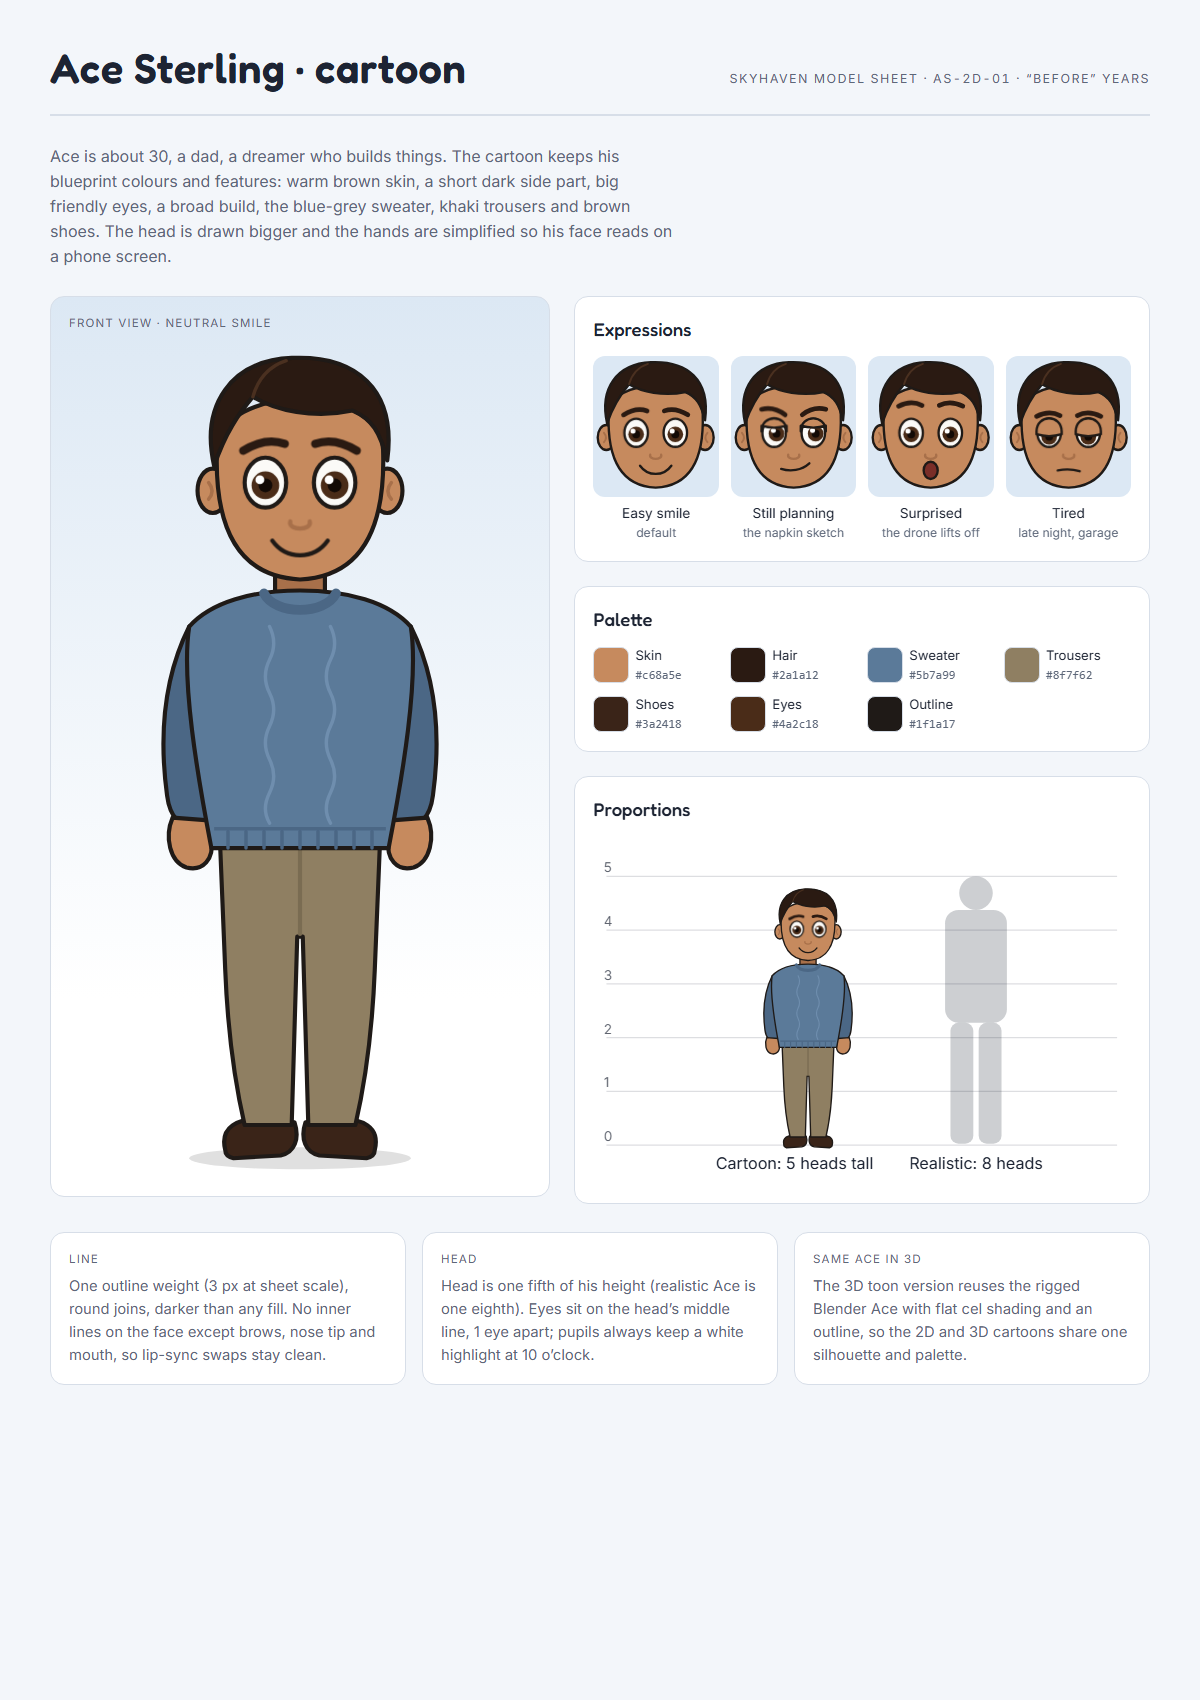
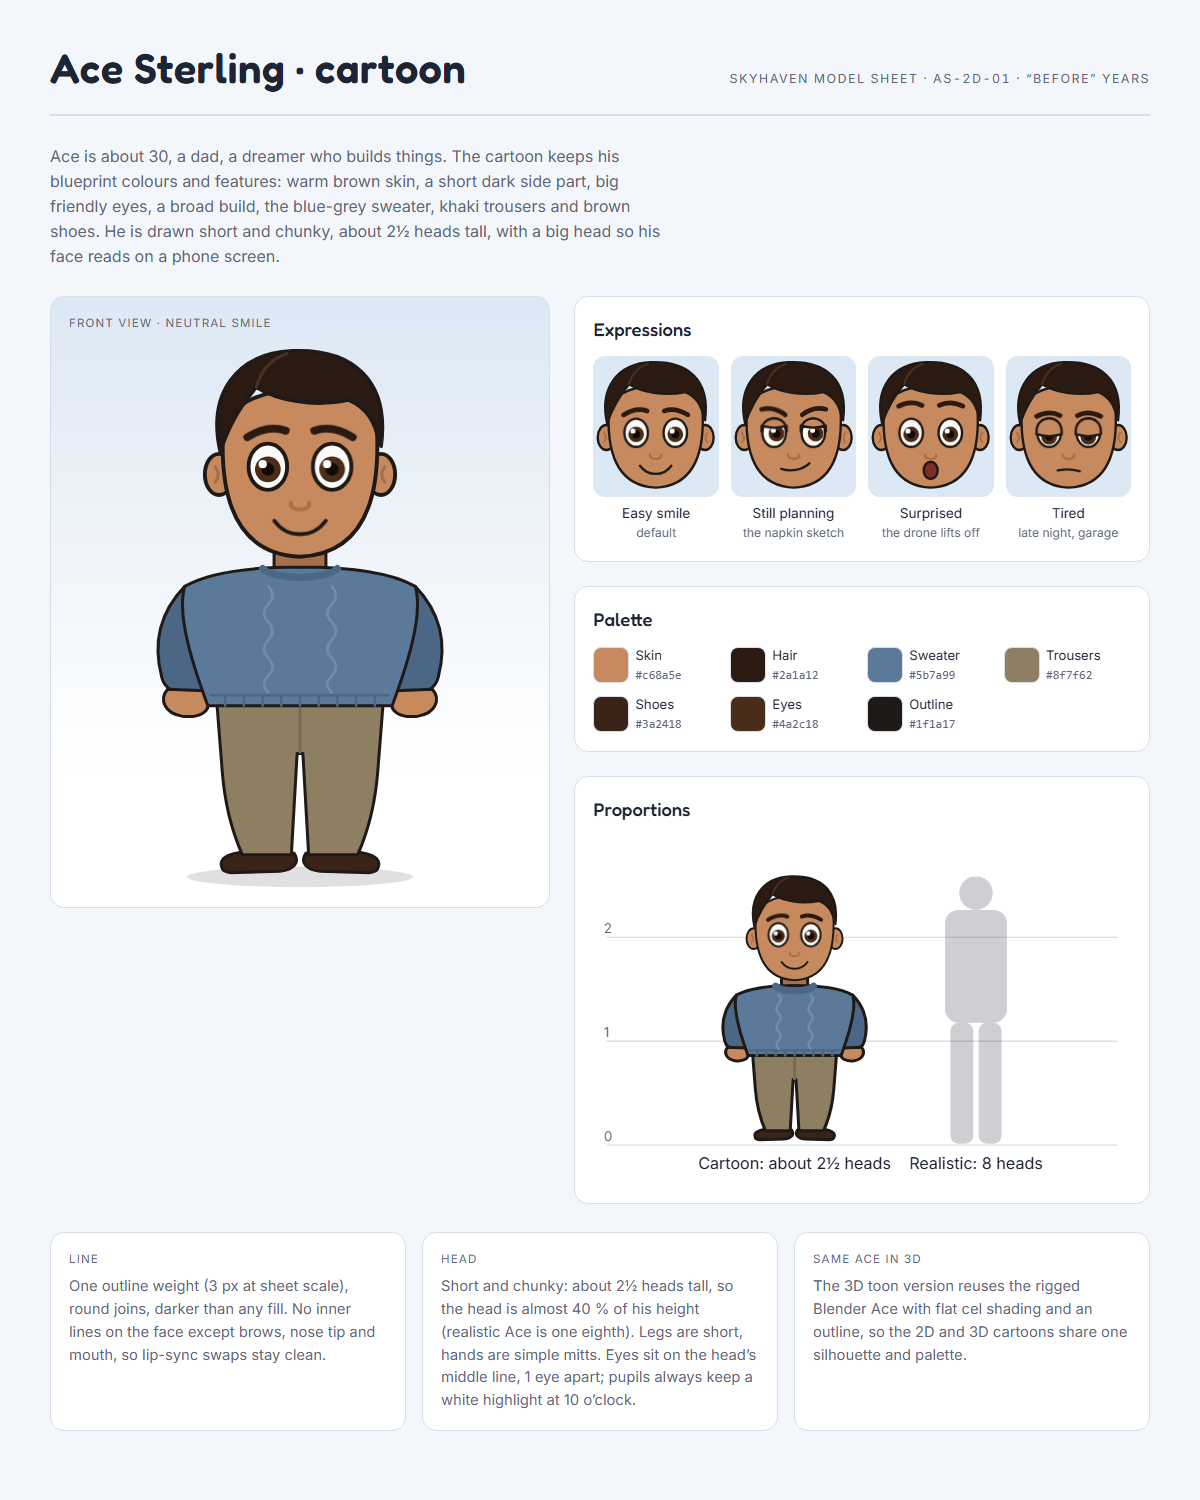
Cartoon Ace: shorter 2D sheet (2.5 heads) and matching rigged 3D model

diff --git a/characters/2d/ace_cartoon.html b/characters/2d/ace_cartoon.html
@@ -40,6 +40,7 @@ h2 { font-family: var(--display); font-weight: 500; font-size: 1.15rem; margin: 
 @media (max-width: 820px) { .notes { grid-template-columns: minmax(0, 1fr); } }
 .notes p { margin: 6px 0 0; color: var(--muted); font-size: .92rem; }
 .heights svg { width: 100%; height: auto; display: block; }
+.short * { vector-effect: non-scaling-stroke; }
 @media (prefers-reduced-motion: no-preference) { .blink { animation: blink 4.5s infinite; transform-origin: center; transform-box: fill-box; } }
 @keyframes blink { 0%, 94%, 100% { transform: scaleY(1); } 96% { transform: scaleY(.1); } }
 </style>
@@ -49,7 +50,7 @@ h2 { font-family: var(--display); font-weight: 500; font-size: 1.15rem; margin: 
     <h1>Ace Sterling · cartoon</h1>
     <span class="sheetid">Skyhaven model sheet · AS-2D-01 · “before” years</span>
   </header>
-  <p class="lede">Ace is about 30, a dad, a dreamer who builds things. The cartoon keeps his blueprint colours and features: warm brown skin, a short dark side part, big friendly eyes, a broad build, the blue-grey sweater, khaki trousers and brown shoes. The head is drawn bigger and the hands are simplified so his face reads on a phone screen.</p>
+  <p class="lede">Ace is about 30, a dad, a dreamer who builds things. The cartoon keeps his blueprint colours and features: warm brown skin, a short dark side part, big friendly eyes, a broad build, the blue-grey sweater, khaki trousers and brown shoes. He is drawn short and chunky, about 2½ heads tall, with a big head so his face reads on a phone screen.</p>
 
   <div class="grid">
     <section class="panel hero" aria-label="Front view">
@@ -74,8 +75,8 @@ h2 { font-family: var(--display); font-weight: 500; font-size: 1.15rem; margin: 
 
   <section class="notes">
     <div class="panel"><div class="label">Line</div><p>One outline weight (3 px at sheet scale), round joins, darker than any fill. No inner lines on the face except brows, nose tip and mouth, so lip-sync swaps stay clean.</p></div>
-    <div class="panel"><div class="label">Head</div><p>Head is one fifth of his height (realistic Ace is one eighth). Eyes sit on the head’s middle line, 1 eye apart; pupils always keep a white highlight at 10 o’clock.</p></div>
-    <div class="panel"><div class="label">Same Ace in 3D</div><p>The 3D toon version reuses the rigged Blender Ace with flat cel shading and an outline, so the 2D and 3D cartoons share one silhouette and palette.</p></div>
+    <div class="panel"><div class="label">Head</div><p>Short and chunky: about 2½ heads tall, so the head is almost 40 % of his height (realistic Ace is one eighth). Legs are short, hands are simple mitts. Eyes sit on the head’s middle line, 1 eye apart; pupils always keep a white highlight at 10 o’clock.</p></div>
+    <div class="panel"><div class="label">Same Ace in 3D</div><p>The 3D cartoon Ace (<code>ace_cartoon_v001.blend</code>) is built from this sheet’s measurements, 1.04 m tall, with flat cel shading, the same outline and a simple rig, so the 2D and 3D cartoons share one silhouette and palette.</p></div>
   </section>
 </div>
 
@@ -157,11 +158,12 @@ function body() {
   for (const x of [128, 172]) o += `<path d="M${x} 222 q6 12 0 24 q-6 12 0 24 q6 12 0 24 q-6 12 0 24 q6 12 0 24 q-6 12 0 22" fill="none" stroke="${C.knit}" stroke-width="2.5" stroke-linecap="round"/>`;
   // crew collar
   o += `<path d="M124 198 C132 214 168 214 176 198" fill="none" stroke="${C.sweaterShade}" stroke-width="7" stroke-linecap="round"/>`;
-  return o;
+  // short, chunky cartoon body: squash everything below the neck to 58 % height and widen it a little
+  return `<g class="short" transform="translate(150 196) scale(1.12 0.58) translate(-150 -196)">${o}</g>`;
 }
 
 const svg = (vb, inner, label) => `<svg viewBox="${vb}" role="img" aria-label="${label}" xmlns="http://www.w3.org/2000/svg">${inner}</svg>`;
-document.getElementById('front').innerHTML = svg('20 10 260 610', `<ellipse cx="150" cy="606" rx="80" ry="8" fill="#000" opacity=".12"/>${body()}${head(EXPR.smile)}`, 'Ace Sterling cartoon, front view');
+document.getElementById('front').innerHTML = svg('10 14 280 432', `<ellipse cx="150" cy="437" rx="88" ry="8" fill="#000" opacity=".12"/>${body()}${head(EXPR.smile)}`, 'Ace Sterling cartoon, front view');
 
 const names = { smile: ['Easy smile', 'default'], planning: ['Still planning', 'the napkin sketch'], surprised: ['Surprised', 'the drone lifts off'], tired: ['Tired', 'late night, garage'] };
 document.getElementById('expr').innerHTML = Object.entries(names).map(([k, [t, sub]]) =>
@@ -174,12 +176,13 @@ document.getElementById('swatches').innerHTML = sw.map(([n, h]) => `<div class="
 (function () {
   const ink = getComputedStyle(document.documentElement).getPropertyValue('--muted').trim() || '#666';
   let o = '';
-  const H = 200, base = 230;
-  for (let i = 0; i <= 5; i++) { const y = base - i * H / 5; o += `<line x1="10" x2="390" y1="${y}" y2="${y}" stroke="currentColor" stroke-opacity=".15"/><text x="8" y="${y - 3}" font-size="10" fill="currentColor" fill-opacity=".7">${i}</text>`; }
-  o += `<g transform="translate(110 ${base - H}) scale(${H / 600})">${body()}${head(EXPR.smile)}</g>`;
+  const H = 200, base = 230, top = 28, feet = 442, unit = H * 160 / (feet - top);   // one head = 160 sheet units
+  for (let i = 0; i * unit <= H + 1; i++) { const y = base - i * unit; o += `<line x1="10" x2="390" y1="${y}" y2="${y}" stroke="currentColor" stroke-opacity=".15"/><text x="8" y="${y - 3}" font-size="10" fill="currentColor" fill-opacity=".7">${i}</text>`; }
+  const k = H / (feet - top);
+  o += `<g transform="translate(${150 - 150 * k} ${base - H - top * k}) scale(${k})">${body()}${head(EXPR.smile)}</g>`;
   // realistic Ace silhouette: 8 heads at the same height
   const hh = H / 8; o += `<g fill="currentColor" fill-opacity=".22"><circle cx="285" cy="${base - H + hh / 2}" r="${hh / 2}"/><rect x="262" y="${base - H + hh}" width="46" height="${H * .42}" rx="10"/><rect x="266" y="${base - H + hh + H * .42}" width="17" height="${H * .45}" rx="6"/><rect x="287" y="${base - H + hh + H * .42}" width="17" height="${H * .45}" rx="6"/></g>`;
-  o += `<text x="150" y="${base + 18}" font-size="12" text-anchor="middle" fill="currentColor">Cartoon: 5 heads tall</text><text x="285" y="${base + 18}" font-size="12" text-anchor="middle" fill="currentColor">Realistic: 8 heads</text>`;
+  o += `<text x="150" y="${base + 18}" font-size="12" text-anchor="middle" fill="currentColor">Cartoon: about 2½ heads</text><text x="285" y="${base + 18}" font-size="12" text-anchor="middle" fill="currentColor">Realistic: 8 heads</text>`;
   document.getElementById('heights').innerHTML = `<svg viewBox="0 0 400 260" role="img" aria-label="Height comparison in head units" style="color:var(--ink)">${o}</svg>`;
 })();
 </script>

diff --git a/blender/characters/README.md b/blender/characters/README.md
@@ -112,3 +112,8 @@ ls._mpfb_data = r + r"\data"; ls._mpfb_root = r
 
 - **2D:** `characters/2d/ace_cartoon.html` (renders to `ace_cartoon_sheet.png`): original cartoon model sheet — front view, four expressions (easy smile, still planning, surprised, tired), palette from the blueprint, 5-heads-tall proportions vs the realistic 8.
 - **3D toon:** `ace_toon_v001.blend` — a copy of `ace_v007.blend` with flat 3-tone cel materials (emission through Shader to RGB + constant ramp), an inverted-hull outline (Solidify, flipped normals, `TOON_outline` material) and bigger eyes. Rig, idle and face controls are unchanged. Proportions are still realistic: scaling the head by pose bones or a shape key tore the Rigify face, so a true big-head 3D cartoon Ace needs a new head mesh built from the 2D sheet.
+
+### Cartoon Ace, short version (`ace_cartoon_v001.blend`) — the chosen cartoon style
+
+Short and chunky, about 2½ heads tall (1.04 m), built in Blender straight from the 2D sheet's measurements (1 sheet unit = 2.5 mm). Simple rounded shapes: big head with large eyes (white, iris, pupil, highlight), curve brows and smile, hair cap with a front hairline, sweater with collar, hem and cable lines, mitt hands, short legs, rounded shoes. Flat 3-tone cel materials (`AC_*`) and an inverted-hull outline (`AC_outline`).
+Rig `AC.rig`: root, hips, chest, head, arm/hand and leg/foot per side; every part is bone-parented (rigid), so posing is quick. Known rough spots: the arms read as blocks, and the hand can separate slightly from the sleeve in big arm poses.
